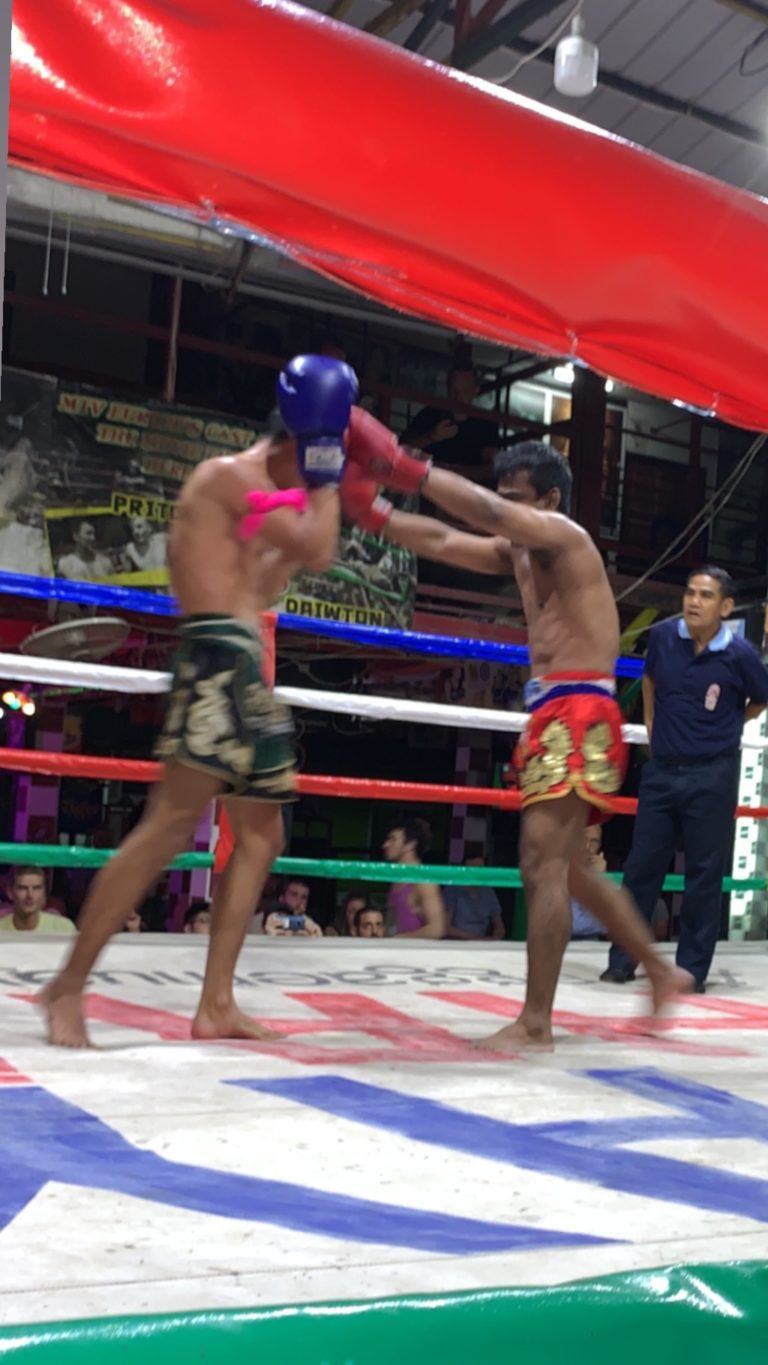
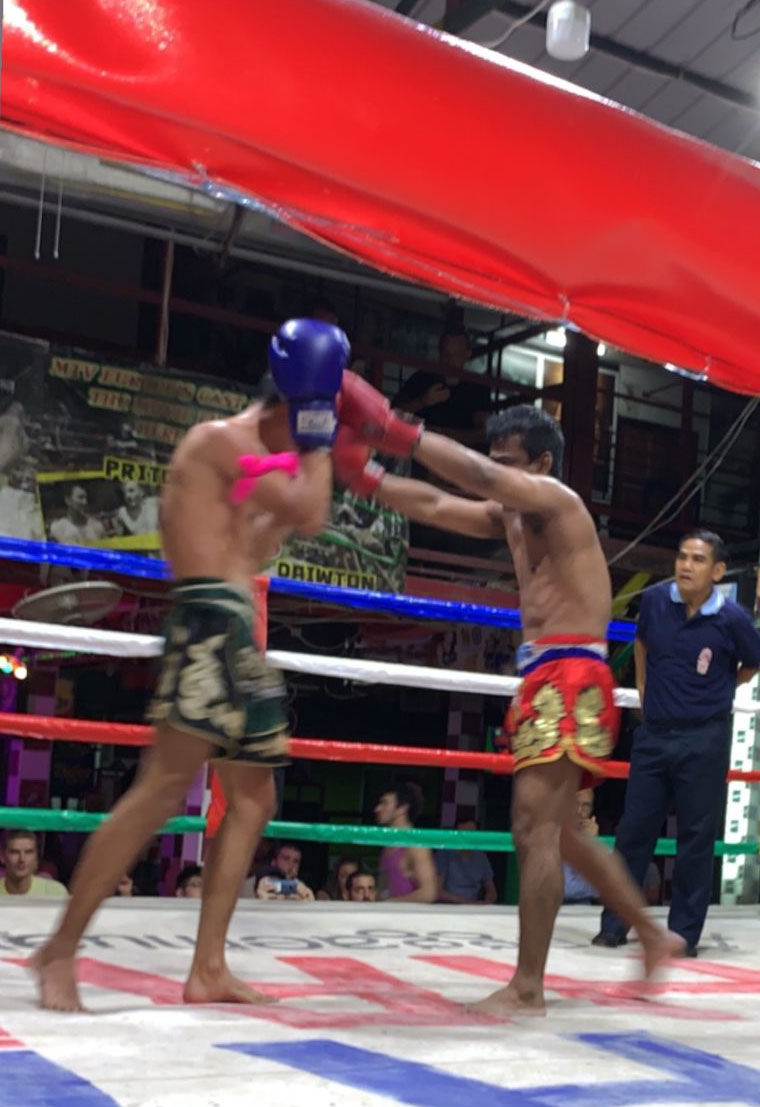
Override to .carousel-root to add media queries and change according to orientation to accomodate portrait mode better

diff --git a/src/components/Widgets/GogoLightbox.js b/src/components/Widgets/GogoLightbox.js
@@ -40,12 +40,12 @@ const LightboxWrapper = styled.div`
     @media screen and (min-aspect-ratio: 3/2) {
       width: 70%;
     }
-    @media screen and (min-aspect-ratio: 17/10) {
+    /* @media screen and (min-aspect-ratio: 17/10) {
       width: 60%;
     }
     @media screen and (min-aspect-ratio: 19/10) {
       width: 50%;
-    }
+    } */
   }
   .lightbox__close {
     &:link,
@@ -56,9 +56,19 @@ const LightboxWrapper = styled.div`
       right: 1.25rem;
     }
   }
-  .carousel .slider-wrapper{
-    //to overide default 100% width so that landscape photos fit.
+  /* .carousel .slider-wrapper{
+    //to overide default 100% width so that portrait photos fit.
     width: 60%;
+  } */
+  .carousel-root{
+    margin: auto;
+  }
+  .carousel-root{
+    //to overide default 100% width so that portrait photos fit.
+    width: 95%;
+    @media screen and (min-aspect-ratio: 4/3) {
+      width: 60%;
+    }
   }
 `;
 
